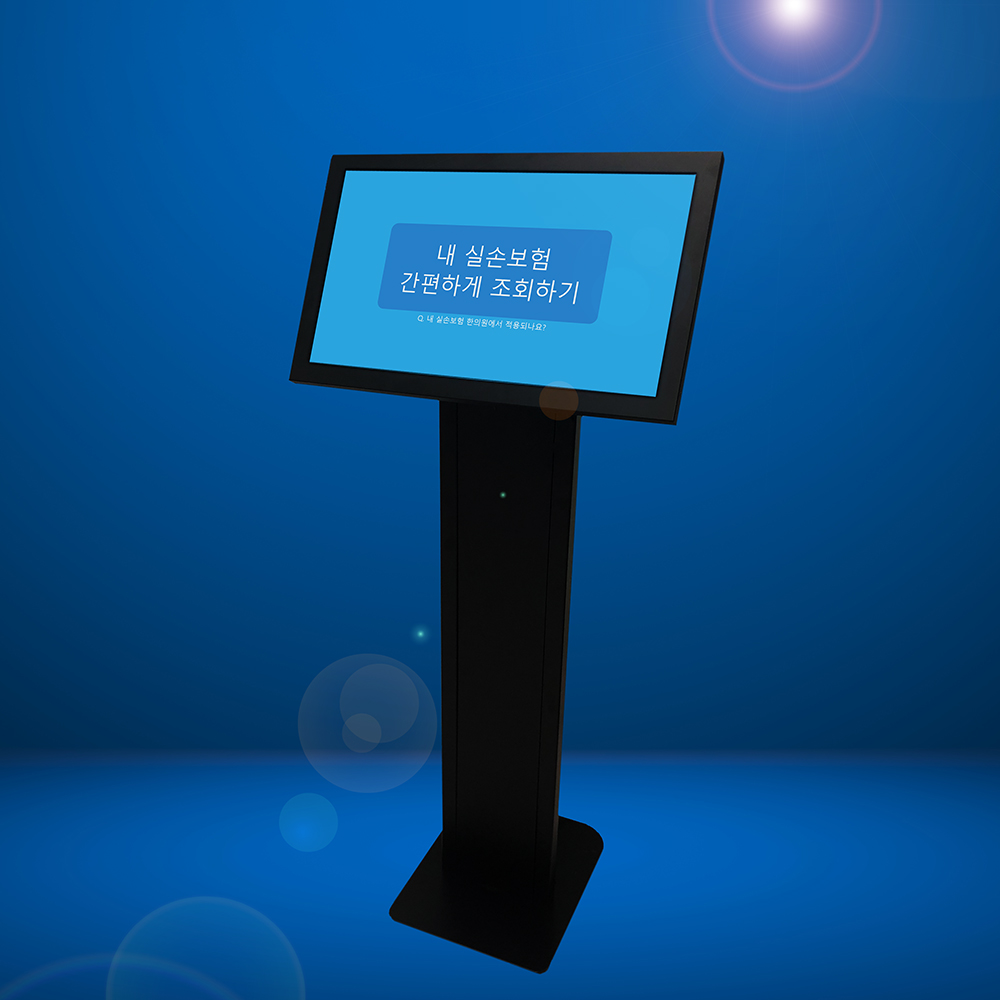
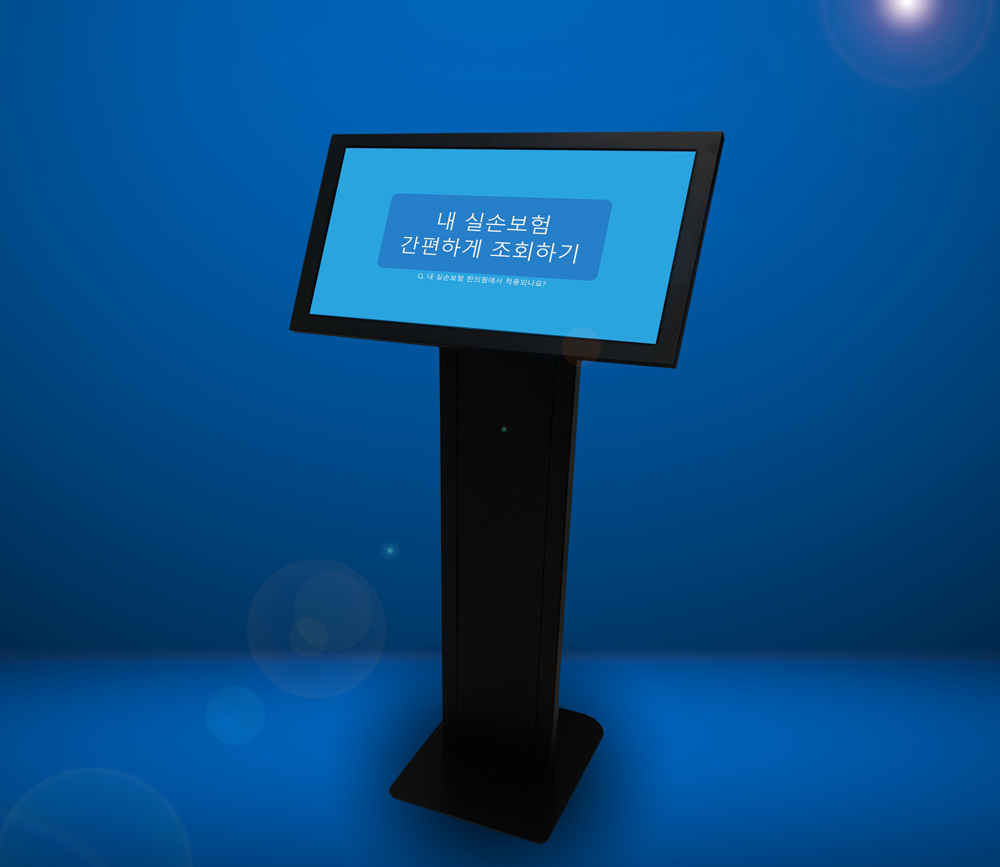
1

Changed region(s): [[0.341, 0.6228, 0.651, 1.0], [0.651, 0.0, 0.992, 0.1246], [0.527, 0.3737, 0.589, 0.436]]

diff --git a/about.md b/about.md
@@ -20,7 +20,7 @@ redirect_from:
 차후 특약 사항까지 모두 확인 가능한 프리미엄 상품도 출시 예정에 있습니다.
 
 
-![kiosk](assets/img/kiosk1.jpg){:.lead width="1000" height="1000" loading="lazy"}
+![kiosk](assets/img/kiosk1.jpg){:.lead width="1000" height="867" loading="lazy"}
 
 ZL Insure가 설치된 키오스크 
 {:.figcaption}
